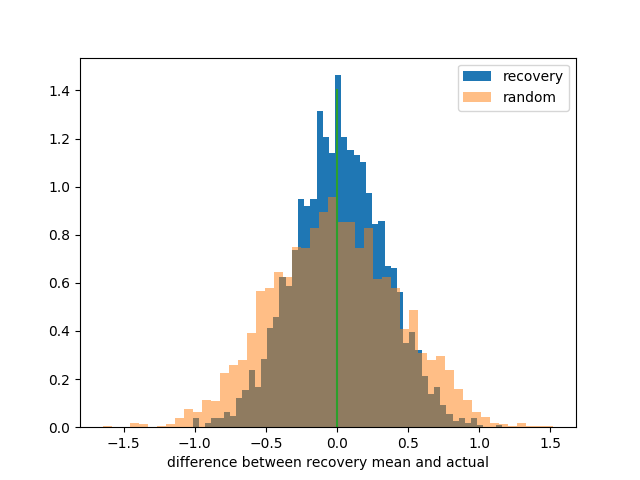
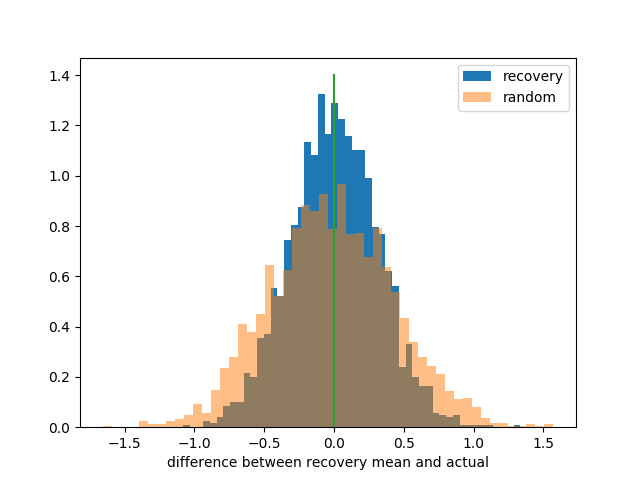
New growth model - 1 noise parameter from la and one from sic

diff --git a/Data Analysis/Enterprise Prediction/Gibrat Process/growth_model_2_rvs.py b/Data Analysis/Enterprise Prediction/Gibrat Process/growth_model_2_rvs.py
@@ -1,0 +1,269 @@
+import csv, datetime
+import numpy as np
+from scipy.stats import lognorm
+from scipy.optimize import fsolve, root
+
+
+def main():
+
+    print('Getting local authority and SIC code expectations')
+    la_target_means, la_target_variances = get_targets_by_la()
+    sic_target_means, sic_target_variances = get_targets_by_sic()
+
+    local_authorities = []
+    sic_codes = []
+
+    target_means = []
+    target_variances = []
+
+    for la, mean in la_target_means.items():
+        local_authorities.append(la)
+        target_means.append(mean)
+        target_variances.append(la_target_variances[la])
+
+    for sic, mean in sic_target_means.items():
+        sic_codes.append(sic)
+        target_means.append(mean)
+        target_variances.append(sic_target_variances[sic])
+
+    print('done')
+
+    print('Getting companies...')
+    companies = get_companies(la_target_means, sic_target_means)
+    print('done')
+
+    print('Sorting Companies...')
+    bins = {la: {sic: {} for sic in sic_codes} for la in local_authorities}
+    for company in companies:
+        if company['age'] in bins[company['la']][company['sic']]:
+            bins[company['la']][company['sic']][company['age']] += 1
+        else:
+            bins[company['la']][company['sic']][company['age']] = 1
+
+    print('done')
+
+    #print((np.array(target_means) ** 2).mean())
+
+    #print(fsolve(expectation, np.zeros(len(local_authorities) + len(sic_codes)) * 0.00000001, args=(target_means, bins, local_authorities, sic_codes)))
+    means = np.ones(len(local_authorities) + len(sic_codes)) * 0.003
+
+    means = root(expectation, np.ones(len(local_authorities) + len(sic_codes)) * 0.003, args=(np.array(target_means), bins, local_authorities, sic_codes), method='lm', jac=expectation_jacobian).x
+    variances = root(variance, np.ones(len(local_authorities) + len(sic_codes)) * 0.001, args=(np.array(target_variances), means, bins, local_authorities, sic_codes), method='lm', jac=variance_jacobian).x
+
+    #print(mean, variances)
+
+    with open('parameters.csv', 'w') as csvfile:
+        writer = csv.writer(csvfile)
+        writer.writerow(local_authorities + sic_codes)
+        writer.writerow(means)
+        #writer.writerow(variances)
+
+
+
+def expectation(params, target, age_bins, local_authorities, sic_codes):
+    expectations = np.zeros(len(local_authorities) + len(sic_codes))
+    bins  = np.zeros(len(local_authorities) + len(sic_codes))
+
+    total_las = len(local_authorities)
+
+    for la, sic_bin in age_bins.items():
+        la_index = local_authorities.index(la)
+        for sic, ages in sic_bin.items():
+            sic_index = sic_codes.index(sic)
+
+            la_param = params[la_index]
+            sic_param = params[total_las + sic_index]
+
+            total = 0
+
+            for age, n in ages.items():
+                expectations[la_index] += n * (1 + la_param + sic_param) ** age
+                expectations[total_las + sic_index] += n * (1 + la_param + sic_param) ** age
+
+                total += n
+
+            bins[la_index] += total
+            bins[total_las + sic_index] += total
+
+    #print(np.mean(target))
+    print(np.mean((expectations / bins - target) ** 2))
+
+    return expectations / bins - target
+
+
+def variance(params, target, means, age_bins, local_authorities, sic_codes):
+    variances = np.zeros(len(local_authorities) + len(sic_codes))
+    totals = np.zeros(len(local_authorities) + len(sic_codes))
+    covariances = np.zeros(len(local_authorities) + len(sic_codes))
+    total_las = len(local_authorities)
+    age_vector = [[] for _ in range(len(local_authorities) + len(sic_codes))]
+
+
+
+
+
+
+    for la, sic_bin in age_bins.items():
+        la_index = local_authorities.index(la)
+        for sic, ages in sic_bin.items():
+            sic_index = sic_codes.index(sic)
+            for age, n in ages.items():
+                totals[la_index] += n
+                totals[total_las + sic_index] += n
+
+                variances[la_index] += n * (params[la_index] ** 2 + params[total_las + sic_index] ** 2) ** age
+                age_vector[la_index].append(n * (1 + means[la_index] + means[total_las + sic_index]) ** age)
+
+    for i, arr in enumerate(age_vector):
+        covariances -= np.outer(arr, arr).sum()
+
+    variances = variances / totals + covariances / totals ** 2
+
+
+
+    print(np.mean((variances - target) ** 2))
+
+    return variances - target
+
+
+
+
+def expectation_jacobian(params, target, age_bins, local_authorities, sic_codes):
+    size = len(local_authorities) + len(sic_codes)
+    number_of_local_authorities = len(local_authorities)
+    jacobian = np.zeros((size, size))
+
+    totals = np.zeros((size, size))
+    total_las = len(local_authorities)
+
+
+    for la, sic_bin in age_bins.items():
+        la_index = local_authorities.index(la)
+        for sic, ages in sic_bin.items():
+            sc_index = sic_codes.index(sic)
+
+
+            for age, n in ages.items():
+                size_deriv = age * n * (1 + params[la_index] + params[number_of_local_authorities + sc_index]) ** (age - 1)
+                jacobian[la_index][la_index] += size_deriv
+                jacobian[number_of_local_authorities + sc_index][number_of_local_authorities + sc_index] += size_deriv
+
+                jacobian[la_index][number_of_local_authorities + sc_index] += size_deriv
+                jacobian[number_of_local_authorities + sc_index][la_index] += size_deriv
+
+                totals[la_index] += n
+                totals[number_of_local_authorities + sc_index] += n
+
+    #print(jacobian)
+
+    return np.divide(jacobian, totals)
+
+def variance_jacobian(params, target, means, age_bins, local_authorities, sic_codes):
+    size = len(local_authorities) + len(sic_codes)
+    jacobian = np.zeros((size, size))
+
+    totals_by_la = {la: 0 for la in local_authorities}
+    totals_by_sic = {sic: 0 for sic in sic_codes}
+
+
+    total_las = len(local_authorities)
+
+
+    for la, sic_bin in age_bins.items():
+        for sic, ages in sic_bin.items():
+            for n in ages.values():
+                totals_by_la[la] += n
+                totals_by_sic[sic] += n
+
+
+
+
+    for la, sic_bin in age_bins.items():
+        la_index = local_authorities.index(la)
+        for sic, ages in sic_bin.items():
+            sic_index = sic_codes.index(sic)
+
+            la_param = params[la_index]
+            sic_param = params[total_las + sic_index]
+
+            for age, n in ages.items():
+                d_var = ((la_param ** 2 + sic_param ** 2) + (1 + means[la_index] + means[total_las + sic_index]) ** 2) ** (age - 1)
+                jacobian[la_index][la_index] += (n / totals_by_la[la]) * 2 * la_param * d_var
+                jacobian[total_las + sic_index][total_las + sic_index] += (n / totals_by_sic[sic]) * 2 * sic_param * d_var
+
+                jacobian[la_index][total_las + sic_index] += (n / totals_by_la[la]) * 2 * la_param * d_var
+                jacobian[total_las + sic_index][la_index] += (n / totals_by_sic[sic]) * 2 * sic_param * d_var
+
+
+    return jacobian
+
+
+def get_companies(las, sics):
+    date = datetime.datetime(2017, 1, 1)
+    companies = []
+    files = ['../Data/CH/Company_Data/' + str(i) + '.csv' for i in range(7)]
+    for file in files:
+        with open(file, 'r') as csvfile:
+            reader = csv.reader(csvfile)
+            for line in reader:
+                try:
+                    sic = int(line[1][:2])
+                except:
+                    continue
+                la = line[5]
+
+                if sic not in sics or la not in las:
+                    continue
+                if (date - datetime.datetime.strptime(line[3], '%Y-%m-%d')).days > 0:
+                    continue
+                age = int((date - datetime.datetime.strptime(line[2], '%Y-%m-%d')).days / 28)
+                #age = 1
+                companies.append({'sic': sic, 'la': la, 'age': age})
+
+    return companies
+
+def get_targets_by_sic():
+    means = {}
+    variances = {}
+    with open('../Data/2017_2_sic_enterprise_lognormal_params.csv', 'r') as csvfile:
+        reader = csv.reader(csvfile)
+        for line in reader:
+            sic = int(line[0])
+            mu = float(line[1])
+            sigma = float(line[2])
+
+            if mu == 0 and sigma == 1:
+                continue
+            if sigma > 10:
+                continue
+
+            mean, variance = get_mean_varaince_of_lognorm(mu, sigma)
+            if mean < 500:
+                means[sic] = mean
+                variances[sic] = variance
+    return means, variances
+
+def get_targets_by_la():
+    means = {}
+    variances = {}
+
+    with open('../Data/2017_la_enterprise_lognormal_params.csv', 'r') as csvfile:
+        reader = csv.reader(csvfile)
+        for line in reader:
+            la = line[0]
+            mu = float(line[1])
+            sigma = float(line[2])
+
+            mean, variance = get_mean_varaince_of_lognorm(mu, sigma)
+
+            means[la] = mean
+            variances[la] = variance
+
+    return means, variances
+
+
+def get_mean_varaince_of_lognorm(mu, sigma):
+    return lognorm.mean(sigma, scale=np.exp(mu)), lognorm.var(sigma, scale=np.exp(mu))
+
+if __name__ == '__main__':
+    main()

diff --git a/Data Analysis/Simulation of Size assignment problem/contour_plot.py b/Data Analysis/Simulation of Size assignment problem/contour_plot.py
@@ -4,7 +4,7 @@ import numpy as np
 
 
 def main():
-    parameters, sizes, new_sizes, results, random_results, mean_distances, random_mean_distances, variance_distances, random_variance_distances = parameter_recovery.parameter_recovery(50000, 50, 50)
+    parameters, sizes, new_sizes, results, random_results, mean_distances, random_mean_distances, variance_distances, random_variance_distances = parameter_recovery.parameter_recovery(200000, 50, 50)
 
     new_params = calculate_new_params(new_sizes)
 
@@ -23,11 +23,18 @@ def main():
         for j, d in data.items():
             a.append(d[0])
             b.append(d[1])
+    plt.subplot(1, 2, 1)
+    plt.hist2d(a, b, 40, range=[[-1, 1], [0.0, 0.15]])
+    plt.ylabel('variance')
+    plt.title('Parameters')
+    plt.xlabel('mean')
+    frame = plt.subplot(1, 2, 2)
+    plt.hist2d(x, y, 40, range=[[-1, 1], [0.0, 0.15]])
+    frame.get_yaxis().set_visible(False)
+    plt.title('Recovered Parameters')
+    plt.xlabel('mean')
+    plt.savefig('contour.png')
 
-    plt.figure(0)
-    plt.hist2d(x, y, 40)
-    plt.figure(1)
-    plt.hist2d(a, b, 40)
     plt.show()
 
 def calculate_new_params(data):

diff --git a/Data Analysis/Simulation of Size assignment problem/parameter_recovery.py b/Data Analysis/Simulation of Size assignment problem/parameter_recovery.py
@@ -113,8 +113,8 @@ def parameter_recovery(n, a, b):
             mean_distances.append(parameters[i][j][0] - mean)
             random_mean_distances.append(parameters[i][j][0] - p[0])
 
-            variance_distances.append(parameters[i][j][1] ** 2 - var)
-            random_variance_distances.append(parameters[i][j][1] ** 2 - p[1])
+            variance_distances.append(parameters[i][j][1] - var)
+            random_variance_distances.append(parameters[i][j][1] - p[1])
 
     return parameters, sizes, new_sizes, results, random_results, mean_distances, random_mean_distances, variance_distances, random_variance_distances
 
